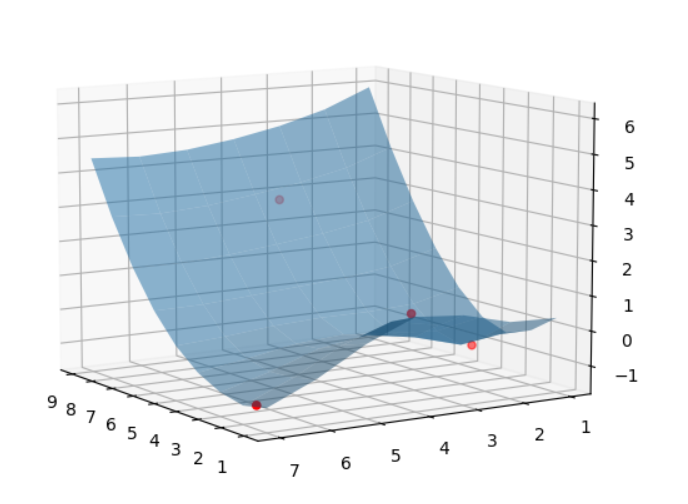
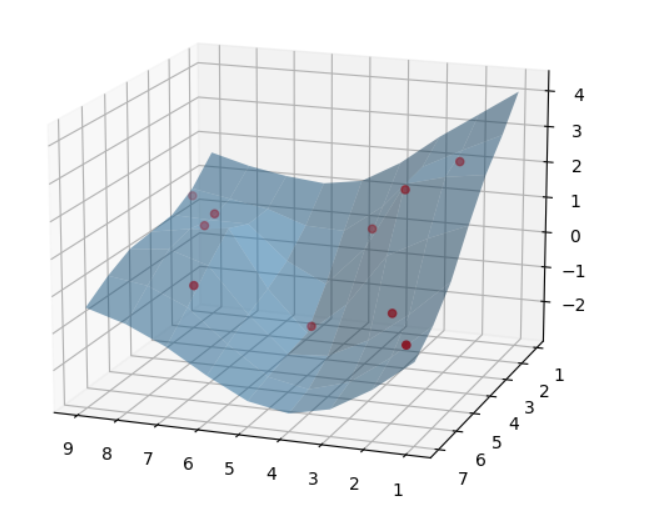
Add more interesting example images

diff --git a/map_to_stl/map_to_stl_test.py b/map_to_stl/map_to_stl_test.py
@@ -13,7 +13,7 @@ class MapToStlTest(TestCase):
         y_axis = np.arange(1, 8, 1)
 
         # Define a rough surface using randomly generated points
-        num_points = 4
+        num_points = 10
         x = x_axis[0] + (np.random.random(num_points)
                          * (x_axis[-1] - x_axis[0]))
         y = y_axis[0] + (np.random.random(num_points)
